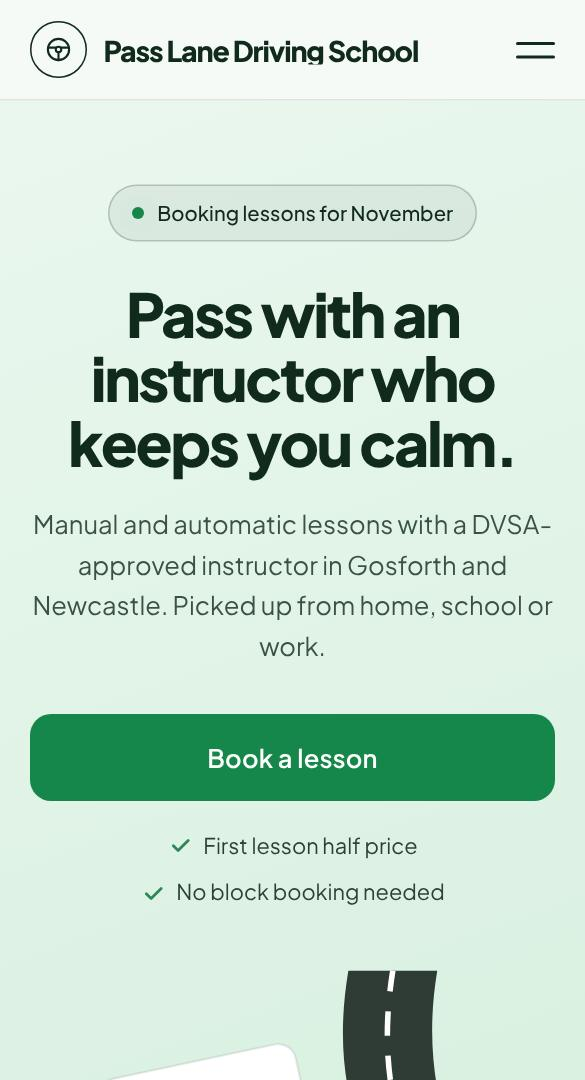
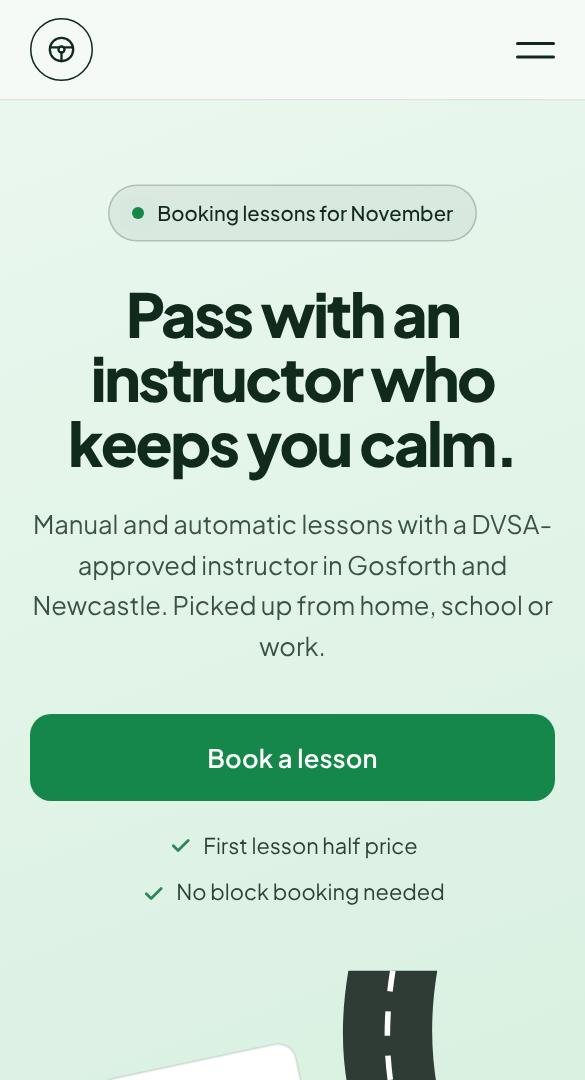
Examples: the header is the badge and the menu, no name
The business name came off the header on all ten; the badge alone, a
touch bigger, with the name as its label for screen readers. The name
stays in the footer. Gallery thumbnails remade to match.

Claude-Session: https://claude.ai/code/session_01FrKRqip2ePYvUrN7zfGmTX

Changed region(s): [[0.0615, 0.0, 0.7385, 0.0917]]

diff --git a/examples/cake-makers.html b/examples/cake-makers.html
@@ -12,13 +12,13 @@
 <link rel="preconnect" href="https://fonts.googleapis.com">
 <link rel="preconnect" href="https://fonts.gstatic.com" crossorigin>
 <link rel="stylesheet" href="https://fonts.googleapis.com/css2?family=Fraunces:opsz,wght@9..144,500;9..144,600;9..144,700&family=Nunito+Sans:wght@400;600;700&display=swap">
-<link rel="stylesheet" href="/examples/ex.css?v=4">
+<link rel="stylesheet" href="/examples/ex.css?v=5">
 <style>:root{--bg:#fff8ef;--ink:#3b2418;--muted:#85685a;--accent:#c45a78;--accent2:#f2c86b;--accent3:#f2c86b;--accent4:#c45a78;--soft:#f8e7d6;--surface:#ffffff;--accent-text:#c45a78;--line:rgba(59,36,24,.12);--fh:'Fraunces', Georgia, serif;--fb:'Nunito Sans', system-ui, sans-serif;--hw:600;--hls:-.02em;--radius:18px;--btn-radius:999px;--on-accent:#fff;--hero-bg:radial-gradient(ellipse at 85% 10%, #d4728a 0%, transparent 55%), radial-gradient(ellipse at 0% 100%, #6b3a26 0%, transparent 60%), #3b2418;--hero-ink:#fff8ef;--case:none}</style>
 </head>
 <body class="T-cake hero-dark">
 <header class="x-nav">
   <div class="x-wrap x-nav-in">
-    <a class="x-logo" href="#preview"><span class="x-mark" aria-hidden="true"><svg viewBox="0 0 24 24" fill="none" stroke="currentColor" stroke-width="1.7" stroke-linecap="round" stroke-linejoin="round"><path d="M4 21h16M5 21v-7a2 2 0 0 1 2-2h10a2 2 0 0 1 2 2v7"/><path d="M5 16c1.2 1 2.3 1 3.5 0s2.3-1 3.5 0 2.3 1 3.5 0 2.3-1 3.5 0"/><path d="M12 12V8"/><path d="M12 3.5c1 1.2 1 2.4 0 3-1-.6-1-1.8 0-3z"/></svg></span><span>Sugar &amp; Crumb</span></a>
+    <a class="x-logo" href="#preview" aria-label="Sugar &amp; Crumb"><span class="x-mark" aria-hidden="true"><svg viewBox="0 0 24 24" fill="none" stroke="currentColor" stroke-width="1.7" stroke-linecap="round" stroke-linejoin="round"><path d="M4 21h16M5 21v-7a2 2 0 0 1 2-2h10a2 2 0 0 1 2 2v7"/><path d="M5 16c1.2 1 2.3 1 3.5 0s2.3-1 3.5 0 2.3 1 3.5 0 2.3-1 3.5 0"/><path d="M12 12V8"/><path d="M12 3.5c1 1.2 1 2.4 0 3-1-.6-1-1.8 0-3z"/></svg></span></a>
     <button class="x-burger" type="button" data-preview aria-label="Menu"><span></span><span></span></button>
   </div>
 </header>

diff --git a/examples/lash-artists.html b/examples/lash-artists.html
@@ -12,13 +12,13 @@
 <link rel="preconnect" href="https://fonts.googleapis.com">
 <link rel="preconnect" href="https://fonts.gstatic.com" crossorigin>
 <link rel="stylesheet" href="https://fonts.googleapis.com/css2?family=DM+Serif+Display&family=DM+Sans:wght@400;500;700&display=swap">
-<link rel="stylesheet" href="/examples/ex.css?v=4">
+<link rel="stylesheet" href="/examples/ex.css?v=5">
 <style>:root{--bg:#fbf4f2;--ink:#3a2a2e;--muted:#866f73;--accent:#b9606c;--accent2:#e8b4b8;--accent3:#e8b4b8;--accent4:#b9606c;--soft:#f5e2e0;--surface:#ffffff;--accent-text:#b9606c;--line:rgba(58,42,46,.1);--fh:'DM Serif Display', Georgia, serif;--fb:'DM Sans', system-ui, sans-serif;--hw:400;--hls:-.01em;--radius:20px;--btn-radius:999px;--on-accent:#fff;--hero-bg:radial-gradient(ellipse at 80% 10%, #c97b84 0%, transparent 55%), radial-gradient(ellipse at 0% 100%, #6e3c46 0%, transparent 60%), #3a2a2e;--hero-ink:#fff6f5;--case:none}</style>
 </head>
 <body class="T-lash hero-dark">
 <header class="x-nav">
   <div class="x-wrap x-nav-in">
-    <a class="x-logo" href="#preview"><span class="x-mark" aria-hidden="true"><svg viewBox="0 0 24 24" fill="none" stroke="currentColor" stroke-width="1.7" stroke-linecap="round" stroke-linejoin="round"><path d="M3 11c2.5 3.3 5.6 5 9 5s6.5-1.7 9-5"/><path d="M5 13.4L3.6 15.6M8.4 15.3l-.9 2.5M12 16v2.7M15.6 15.3l.9 2.5M19 13.4l1.4 2.2"/></svg></span><span>Flutter Lash Studio</span></a>
+    <a class="x-logo" href="#preview" aria-label="Flutter Lash Studio"><span class="x-mark" aria-hidden="true"><svg viewBox="0 0 24 24" fill="none" stroke="currentColor" stroke-width="1.7" stroke-linecap="round" stroke-linejoin="round"><path d="M3 11c2.5 3.3 5.6 5 9 5s6.5-1.7 9-5"/><path d="M5 13.4L3.6 15.6M8.4 15.3l-.9 2.5M12 16v2.7M15.6 15.3l.9 2.5M19 13.4l1.4 2.2"/></svg></span></a>
     <button class="x-burger" type="button" data-preview aria-label="Menu"><span></span><span></span></button>
   </div>
 </header>

diff --git a/examples/heating-engineers.html b/examples/heating-engineers.html
@@ -12,13 +12,13 @@
 <link rel="preconnect" href="https://fonts.googleapis.com">
 <link rel="preconnect" href="https://fonts.gstatic.com" crossorigin>
 <link rel="stylesheet" href="https://fonts.googleapis.com/css2?family=Archivo:wght@400;500;600;700;800&display=swap">
-<link rel="stylesheet" href="/examples/ex.css?v=4">
+<link rel="stylesheet" href="/examples/ex.css?v=5">
 <style>:root{--bg:#fffaf6;--ink:#1d1a18;--muted:#6b625c;--accent:#e0501f;--accent2:#1d1a18;--accent3:#1d1a18;--accent4:#e0501f;--soft:#f8ede4;--surface:#ffffff;--accent-text:#b83c0f;--line:rgba(29,26,24,.1);--fh:'Archivo', system-ui, sans-serif;--fb:'Archivo', system-ui, sans-serif;--hw:800;--hls:-.03em;--radius:14px;--btn-radius:999px;--on-accent:#fff;--hero-bg:radial-gradient(ellipse at 85% 0%, rgba(234,90,42,.35), transparent 55%), radial-gradient(ellipse at 0% 100%, #3a2a22 0%, transparent 60%), #1d1a18;--hero-ink:#fff8f3;--case:none}</style>
 </head>
 <body class="T-boiler hero-dark">
 <header class="x-nav">
   <div class="x-wrap x-nav-in">
-    <a class="x-logo" href="#preview"><span class="x-mark" aria-hidden="true"><svg viewBox="0 0 24 24" fill="none" stroke="currentColor" stroke-width="1.7" stroke-linecap="round" stroke-linejoin="round"><path d="M12 21c4 0 7-2.8 7-6.8 0-3.6-2.7-6.1-4.2-9.2-.6 2.3-1.8 3.6-3.1 4.2C11 7 10 5 10 3c-3.4 2.4-7 6.3-7 11.2C3 18.2 7 21 12 21z"/></svg></span><span>Coastline Heating</span></a>
+    <a class="x-logo" href="#preview" aria-label="Coastline Heating"><span class="x-mark" aria-hidden="true"><svg viewBox="0 0 24 24" fill="none" stroke="currentColor" stroke-width="1.7" stroke-linecap="round" stroke-linejoin="round"><path d="M12 21c4 0 7-2.8 7-6.8 0-3.6-2.7-6.1-4.2-9.2-.6 2.3-1.8 3.6-3.1 4.2C11 7 10 5 10 3c-3.4 2.4-7 6.3-7 11.2C3 18.2 7 21 12 21z"/></svg></span></a>
     <button class="x-burger" type="button" data-preview aria-label="Menu"><span></span><span></span></button>
   </div>
 </header>

diff --git a/examples/mobile-car-valeters.html b/examples/mobile-car-valeters.html
@@ -12,13 +12,13 @@
 <link rel="preconnect" href="https://fonts.googleapis.com">
 <link rel="preconnect" href="https://fonts.gstatic.com" crossorigin>
 <link rel="stylesheet" href="https://fonts.googleapis.com/css2?family=Sora:wght@400;500;600;700&display=swap">
-<link rel="stylesheet" href="/examples/ex.css?v=4">
+<link rel="stylesheet" href="/examples/ex.css?v=5">
 <style>:root{--bg:#f5f8fa;--ink:#0b0f14;--muted:#5e6b77;--accent:#14b8a6;--accent2:#0f766e;--accent3:#0f766e;--accent4:#14b8a6;--soft:#e6f4f2;--surface:#ffffff;--accent-text:#0f766e;--line:rgba(11,15,20,.1);--fh:'Sora', system-ui, sans-serif;--fb:'Sora', system-ui, sans-serif;--hw:700;--hls:-.04em;--radius:18px;--btn-radius:14px;--on-accent:#062a26;--hero-bg:radial-gradient(ellipse at 80% 10%, rgba(61,214,196,.22), transparent 55%), #0b0f14;--hero-ink:#eef3f7;--case:none}</style>
 </head>
 <body class="T-valet hero-dark">
 <header class="x-nav">
   <div class="x-wrap x-nav-in">
-    <a class="x-logo" href="#preview"><span class="x-mark" aria-hidden="true"><svg viewBox="0 0 24 24" fill="none" stroke="currentColor" stroke-width="1.7" stroke-linecap="round" stroke-linejoin="round"><path d="M4 16v-3.5L6.2 8a2 2 0 0 1 1.8-1h8a2 2 0 0 1 1.8 1L20 12.5V16"/><path d="M3 16h18v2H3z"/><circle cx="7.5" cy="16" r="1.6"/><circle cx="16.5" cy="16" r="1.6"/></svg></span><span>Gleam Mobile Valeting</span></a>
+    <a class="x-logo" href="#preview" aria-label="Gleam Mobile Valeting"><span class="x-mark" aria-hidden="true"><svg viewBox="0 0 24 24" fill="none" stroke="currentColor" stroke-width="1.7" stroke-linecap="round" stroke-linejoin="round"><path d="M4 16v-3.5L6.2 8a2 2 0 0 1 1.8-1h8a2 2 0 0 1 1.8 1L20 12.5V16"/><path d="M3 16h18v2H3z"/><circle cx="7.5" cy="16" r="1.6"/><circle cx="16.5" cy="16" r="1.6"/></svg></span></a>
     <button class="x-burger" type="button" data-preview aria-label="Menu"><span></span><span></span></button>
   </div>
 </header>

diff --git a/examples/hairdressers.html b/examples/hairdressers.html
@@ -12,13 +12,13 @@
 <link rel="preconnect" href="https://fonts.googleapis.com">
 <link rel="preconnect" href="https://fonts.gstatic.com" crossorigin>
 <link rel="stylesheet" href="https://fonts.googleapis.com/css2?family=Cormorant+Garamond:wght@500;600;700&family=Jost:wght@400;500;600&display=swap">
-<link rel="stylesheet" href="/examples/ex.css?v=4">
+<link rel="stylesheet" href="/examples/ex.css?v=5">
 <style>:root{--bg:#f7f2ec;--ink:#2a2420;--muted:#76675d;--accent:#a85f43;--accent2:#d9b8a3;--accent3:#d9b8a3;--accent4:#a85f43;--soft:#efe4d9;--surface:#fffaf5;--accent-text:#a85f43;--line:rgba(42,36,32,.12);--fh:'Cormorant Garamond', Georgia, serif;--fb:'Jost', system-ui, sans-serif;--hw:600;--hls:-.01em;--radius:6px;--btn-radius:999px;--on-accent:#fff;--hero-bg:radial-gradient(ellipse at 75% 15%, #8a5440 0%, transparent 55%), radial-gradient(ellipse at 10% 90%, #5a3a2c 0%, transparent 60%), #2a2420;--hero-ink:#fbf6f1;--case:none}</style>
 </head>
 <body class="T-hair hero-dark">
 <header class="x-nav">
   <div class="x-wrap x-nav-in">
-    <a class="x-logo" href="#preview"><span class="x-mark" aria-hidden="true"><svg viewBox="0 0 24 24" fill="none" stroke="currentColor" stroke-width="1.7" stroke-linecap="round" stroke-linejoin="round"><circle cx="6.5" cy="6.5" r="2.6"/><circle cx="6.5" cy="17.5" r="2.6"/><path d="M8.6 8.1L20 18.5M8.6 15.9L20 5.5"/></svg></span><span>Linden Hair Studio</span></a>
+    <a class="x-logo" href="#preview" aria-label="Linden Hair Studio"><span class="x-mark" aria-hidden="true"><svg viewBox="0 0 24 24" fill="none" stroke="currentColor" stroke-width="1.7" stroke-linecap="round" stroke-linejoin="round"><circle cx="6.5" cy="6.5" r="2.6"/><circle cx="6.5" cy="17.5" r="2.6"/><path d="M8.6 8.1L20 18.5M8.6 15.9L20 5.5"/></svg></span></a>
     <button class="x-burger" type="button" data-preview aria-label="Menu"><span></span><span></span></button>
   </div>
 </header>

diff --git a/examples/makeup-artists.html b/examples/makeup-artists.html
@@ -12,13 +12,13 @@
 <link rel="preconnect" href="https://fonts.googleapis.com">
 <link rel="preconnect" href="https://fonts.gstatic.com" crossorigin>
 <link rel="stylesheet" href="https://fonts.googleapis.com/css2?family=Bodoni+Moda:ital,wght@0,500;0,600;1,500&family=Manrope:wght@400;500;700&display=swap">
-<link rel="stylesheet" href="/examples/ex.css?v=4">
+<link rel="stylesheet" href="/examples/ex.css?v=5">
 <style>:root{--bg:#faf7f2;--ink:#1d1a1a;--muted:#7a706a;--accent:#a8834a;--accent2:#cfa96b;--accent3:#cfa96b;--accent4:#a8834a;--soft:#f1ebe1;--surface:#ffffff;--accent-text:#7d5f2e;--line:rgba(29,26,26,.1);--fh:'Bodoni Moda', Georgia, serif;--fb:'Manrope', system-ui, sans-serif;--hw:500;--hls:-.01em;--radius:4px;--btn-radius:999px;--on-accent:#fff;--hero-bg:radial-gradient(ellipse at 85% 0%, rgba(207,169,107,.45) 0%, transparent 50%), radial-gradient(ellipse at 0% 100%, #2a231d 0%, transparent 60%), #121011;--hero-ink:#f6efe6;--case:none}</style>
 </head>
 <body class="T-mua hero-dark">
 <header class="x-nav">
   <div class="x-wrap x-nav-in">
-    <a class="x-logo" href="#preview"><span class="x-mark" aria-hidden="true"><svg viewBox="0 0 24 24" fill="none" stroke="currentColor" stroke-width="1.7" stroke-linecap="round" stroke-linejoin="round"><path d="M14.5 3.5l6 6-7.5 7.5-6-6z"/><path d="M7 11l6 6-2 2c-1.6 1.6-4.4 1.6-6 0s-1.6-4.4 0-6z"/></svg></span><span>Gilt Makeup Artistry</span></a>
+    <a class="x-logo" href="#preview" aria-label="Gilt Makeup Artistry"><span class="x-mark" aria-hidden="true"><svg viewBox="0 0 24 24" fill="none" stroke="currentColor" stroke-width="1.7" stroke-linecap="round" stroke-linejoin="round"><path d="M14.5 3.5l6 6-7.5 7.5-6-6z"/><path d="M7 11l6 6-2 2c-1.6 1.6-4.4 1.6-6 0s-1.6-4.4 0-6z"/></svg></span></a>
     <button class="x-burger" type="button" data-preview aria-label="Menu"><span></span><span></span></button>
   </div>
 </header>

diff --git a/examples/nail-techs.html b/examples/nail-techs.html
@@ -12,13 +12,13 @@
 <link rel="preconnect" href="https://fonts.googleapis.com">
 <link rel="preconnect" href="https://fonts.gstatic.com" crossorigin>
 <link rel="stylesheet" href="https://fonts.googleapis.com/css2?family=Outfit:wght@400;500;600;700&display=swap">
-<link rel="stylesheet" href="/examples/ex.css?v=4">
+<link rel="stylesheet" href="/examples/ex.css?v=5">
 <style>:root{--bg:#fff7f5;--ink:#2d1f2b;--muted:#7d6876;--accent:#d64c74;--accent2:#f7b5c8;--accent3:#f7b5c8;--accent4:#d64c74;--soft:#fde6ee;--surface:#ffffff;--accent-text:#d64c74;--line:rgba(45,31,43,.1);--fh:'Outfit', system-ui, sans-serif;--fb:'Outfit', system-ui, sans-serif;--hw:700;--hls:-.035em;--radius:24px;--btn-radius:999px;--on-accent:#fff;--hero-bg:radial-gradient(ellipse at 85% 10%, #f07ea0 0%, transparent 55%), radial-gradient(ellipse at 0% 100%, #6b2445 0%, transparent 60%), #2d1f2b;--hero-ink:#fff7fa;--case:none}</style>
 </head>
 <body class="T-nails hero-dark">
 <header class="x-nav">
   <div class="x-wrap x-nav-in">
-    <a class="x-logo" href="#preview"><span class="x-mark" aria-hidden="true"><svg viewBox="0 0 24 24" fill="none" stroke="currentColor" stroke-width="1.7" stroke-linecap="round" stroke-linejoin="round"><rect x="6.5" y="10" width="11" height="11" rx="2.5"/><path d="M9.5 10V6.5h5V10M10.5 6.5V3h3v3.5"/></svg></span><span>The Polish Room</span></a>
+    <a class="x-logo" href="#preview" aria-label="The Polish Room"><span class="x-mark" aria-hidden="true"><svg viewBox="0 0 24 24" fill="none" stroke="currentColor" stroke-width="1.7" stroke-linecap="round" stroke-linejoin="round"><rect x="6.5" y="10" width="11" height="11" rx="2.5"/><path d="M9.5 10V6.5h5V10M10.5 6.5V3h3v3.5"/></svg></span></a>
     <button class="x-burger" type="button" data-preview aria-label="Menu"><span></span><span></span></button>
   </div>
 </header>

diff --git a/examples/driving-instructors.html b/examples/driving-instructors.html
@@ -12,13 +12,13 @@
 <link rel="preconnect" href="https://fonts.googleapis.com">
 <link rel="preconnect" href="https://fonts.gstatic.com" crossorigin>
 <link rel="stylesheet" href="https://fonts.googleapis.com/css2?family=Plus+Jakarta+Sans:wght@400;500;600;700;800&display=swap">
-<link rel="stylesheet" href="/examples/ex.css?v=4">
+<link rel="stylesheet" href="/examples/ex.css?v=5">
 <style>:root{--bg:#f5faf6;--ink:#102a1c;--muted:#587163;--accent:#16874a;--accent2:#e53935;--accent3:#ffd23f;--accent4:#1f9d55;--soft:#e3f3e8;--surface:#ffffff;--accent-text:#147a43;--line:rgba(16,42,28,.1);--fh:'Plus Jakarta Sans', system-ui, sans-serif;--fb:'Plus Jakarta Sans', system-ui, sans-serif;--hw:800;--hls:-.04em;--radius:20px;--btn-radius:14px;--on-accent:#fff;--hero-bg:linear-gradient(160deg, #eaf7ee 0%, #d3eedc 100%);--hero-ink:#102a1c;--case:none}</style>
 </head>
 <body class="T-driving">
 <header class="x-nav">
   <div class="x-wrap x-nav-in">
-    <a class="x-logo" href="#preview"><span class="x-mark" aria-hidden="true"><svg viewBox="0 0 24 24" fill="none" stroke="currentColor" stroke-width="1.7" stroke-linecap="round" stroke-linejoin="round"><circle cx="12" cy="12" r="8.5"/><circle cx="12" cy="12" r="2.2"/><path d="M3.8 10.5h6M14.2 10.5h6M12 14.2v6.3"/></svg></span><span>Pass Lane Driving School</span></a>
+    <a class="x-logo" href="#preview" aria-label="Pass Lane Driving School"><span class="x-mark" aria-hidden="true"><svg viewBox="0 0 24 24" fill="none" stroke="currentColor" stroke-width="1.7" stroke-linecap="round" stroke-linejoin="round"><circle cx="12" cy="12" r="8.5"/><circle cx="12" cy="12" r="2.2"/><path d="M3.8 10.5h6M14.2 10.5h6M12 14.2v6.3"/></svg></span></a>
     <button class="x-burger" type="button" data-preview aria-label="Menu"><span></span><span></span></button>
   </div>
 </header>

diff --git a/examples/electricians.html b/examples/electricians.html
@@ -12,13 +12,13 @@
 <link rel="preconnect" href="https://fonts.googleapis.com">
 <link rel="preconnect" href="https://fonts.gstatic.com" crossorigin>
 <link rel="stylesheet" href="https://fonts.googleapis.com/css2?family=Barlow+Condensed:wght@600;700;800&family=Barlow:wght@400;500;600;700&display=swap">
-<link rel="stylesheet" href="/examples/ex.css?v=4">
+<link rel="stylesheet" href="/examples/ex.css?v=5">
 <style>:root{--bg:#ffffff;--ink:#0f1b2d;--muted:#5b6678;--accent:#ffc400;--accent2:#0f1b2d;--accent3:#0f1b2d;--accent4:#ffc400;--soft:#f2f4f7;--surface:#ffffff;--accent-text:#0f1b2d;--line:rgba(15,27,45,.1);--fh:'Barlow Condensed', 'Arial Narrow', sans-serif;--fb:'Barlow', system-ui, sans-serif;--hw:700;--hls:0;--radius:10px;--btn-radius:10px;--on-accent:#0f1b2d;--hero-bg:radial-gradient(circle at 85% 10%, rgba(255,196,0,.16), transparent 50%), #0f1b2d;--hero-ink:#ffffff;--case:uppercase}</style>
 </head>
 <body class="T-elec hero-dark">
 <header class="x-nav">
   <div class="x-wrap x-nav-in">
-    <a class="x-logo" href="#preview"><span class="x-mark" aria-hidden="true"><svg viewBox="0 0 24 24" fill="none" stroke="currentColor" stroke-width="1.7" stroke-linecap="round" stroke-linejoin="round"><path d="M13 2.5L4.5 14H11l-1 7.5L18.5 10H12z"/></svg></span><span>Brightline Electrical</span></a>
+    <a class="x-logo" href="#preview" aria-label="Brightline Electrical"><span class="x-mark" aria-hidden="true"><svg viewBox="0 0 24 24" fill="none" stroke="currentColor" stroke-width="1.7" stroke-linecap="round" stroke-linejoin="round"><path d="M13 2.5L4.5 14H11l-1 7.5L18.5 10H12z"/></svg></span></a>
     <button class="x-burger" type="button" data-preview aria-label="Menu"><span></span><span></span></button>
   </div>
 </header>

diff --git a/examples/kids-clubs.html b/examples/kids-clubs.html
@@ -12,13 +12,13 @@
 <link rel="preconnect" href="https://fonts.googleapis.com">
 <link rel="preconnect" href="https://fonts.gstatic.com" crossorigin>
 <link rel="stylesheet" href="https://fonts.googleapis.com/css2?family=Fredoka:wght@500;600;700&family=Nunito:wght@400;600;700&display=swap">
-<link rel="stylesheet" href="/examples/ex.css?v=4">
+<link rel="stylesheet" href="/examples/ex.css?v=5">
 <style>:root{--bg:#fffcf3;--ink:#23304a;--muted:#5f6b82;--accent:#ff6b4a;--accent2:#ffc93c;--accent3:#3fb8af;--accent4:#7c6cf2;--soft:#fff1d6;--surface:#ffffff;--accent-text:#c9391a;--line:rgba(35,48,74,.1);--fh:'Fredoka', system-ui, sans-serif;--fb:'Nunito', system-ui, sans-serif;--hw:600;--hls:-.01em;--radius:24px;--btn-radius:999px;--on-accent:#fff;--hero-bg:linear-gradient(160deg, #fff4dc 0%, #ffe3c2 100%);--hero-ink:#23304a;--case:none}</style>
 </head>
 <body class="T-kids">
 <header class="x-nav">
   <div class="x-wrap x-nav-in">
-    <a class="x-logo" href="#preview"><span class="x-mark" aria-hidden="true"><svg viewBox="0 0 24 24" fill="none" stroke="currentColor" stroke-width="1.7" stroke-linecap="round" stroke-linejoin="round"><path d="M12 3.4l2.5 5.4 5.9.6-4.4 4 1.2 5.8L12 16.2l-5.2 3 1.2-5.8-4.4-4 5.9-.6z"/></svg></span><span>Little Movers</span></a>
+    <a class="x-logo" href="#preview" aria-label="Little Movers"><span class="x-mark" aria-hidden="true"><svg viewBox="0 0 24 24" fill="none" stroke="currentColor" stroke-width="1.7" stroke-linecap="round" stroke-linejoin="round"><path d="M12 3.4l2.5 5.4 5.9.6-4.4 4 1.2 5.8L12 16.2l-5.2 3 1.2-5.8-4.4-4 5.9-.6z"/></svg></span></a>
     <button class="x-burger" type="button" data-preview aria-label="Menu"><span></span><span></span></button>
   </div>
 </header>

diff --git a/examples/ex.css b/examples/ex.css
@@ -40,6 +40,9 @@ body.k1-locked{overflow:hidden}
 .x-logo > span:last-child{font-family:var(--fh);font-weight:var(--hw);font-size:19px;letter-spacing:var(--hls);line-height:1.1;text-transform:var(--case);white-space:nowrap;overflow:hidden;text-overflow:ellipsis}
 .x-mark{display:grid;place-items:center;width:38px;height:38px;flex:0 0 38px;border-radius:50%;border:1.6px solid currentColor}
 .x-mark svg{width:20px;height:20px}
+/* The header carries the badge alone, a touch bigger; the name is in the footer. */
+.x-nav .x-mark{width:42px;height:42px;flex-basis:42px}
+.x-nav .x-mark svg{width:22px;height:22px}
 .x-burger{display:grid;align-content:center;gap:7px;width:44px;height:44px;padding:0 9px;margin-right:-9px;background:none;border:0;color:inherit;cursor:pointer}
 .x-burger span{display:block;height:2px;border-radius:2px;background:currentColor}
 

diff --git a/industry-pages/examples.js b/industry-pages/examples.js
@@ -15,7 +15,7 @@ const fs = require('fs');
 const path = require('path');
 const EXAMPLES = require('./examples-data.js');
 
-const EX_CSS_V = 4;
+const EX_CSS_V = 5;
 const EX_JS_V = 2;
 const SITE_ID = '9094de37-b610-41b6-98f1-2aaf8f5bd52b';
 const ROOT = path.join(__dirname, '..');
@@ -282,7 +282,7 @@ function page(e) {
 <body class="T-${e.key}${dark ? ' hero-dark' : ''}">
 <header class="x-nav">
   <div class="x-wrap x-nav-in">
-    <a class="x-logo" href="${P}">${mark(e.icon)}<span>${e.name}</span></a>
+    <a class="x-logo" href="${P}" aria-label="${strip(e.name)}">${mark(e.icon)}</a>
     <button class="x-burger" type="button" data-preview aria-label="Menu"><span></span><span></span></button>
   </div>
 </header>
